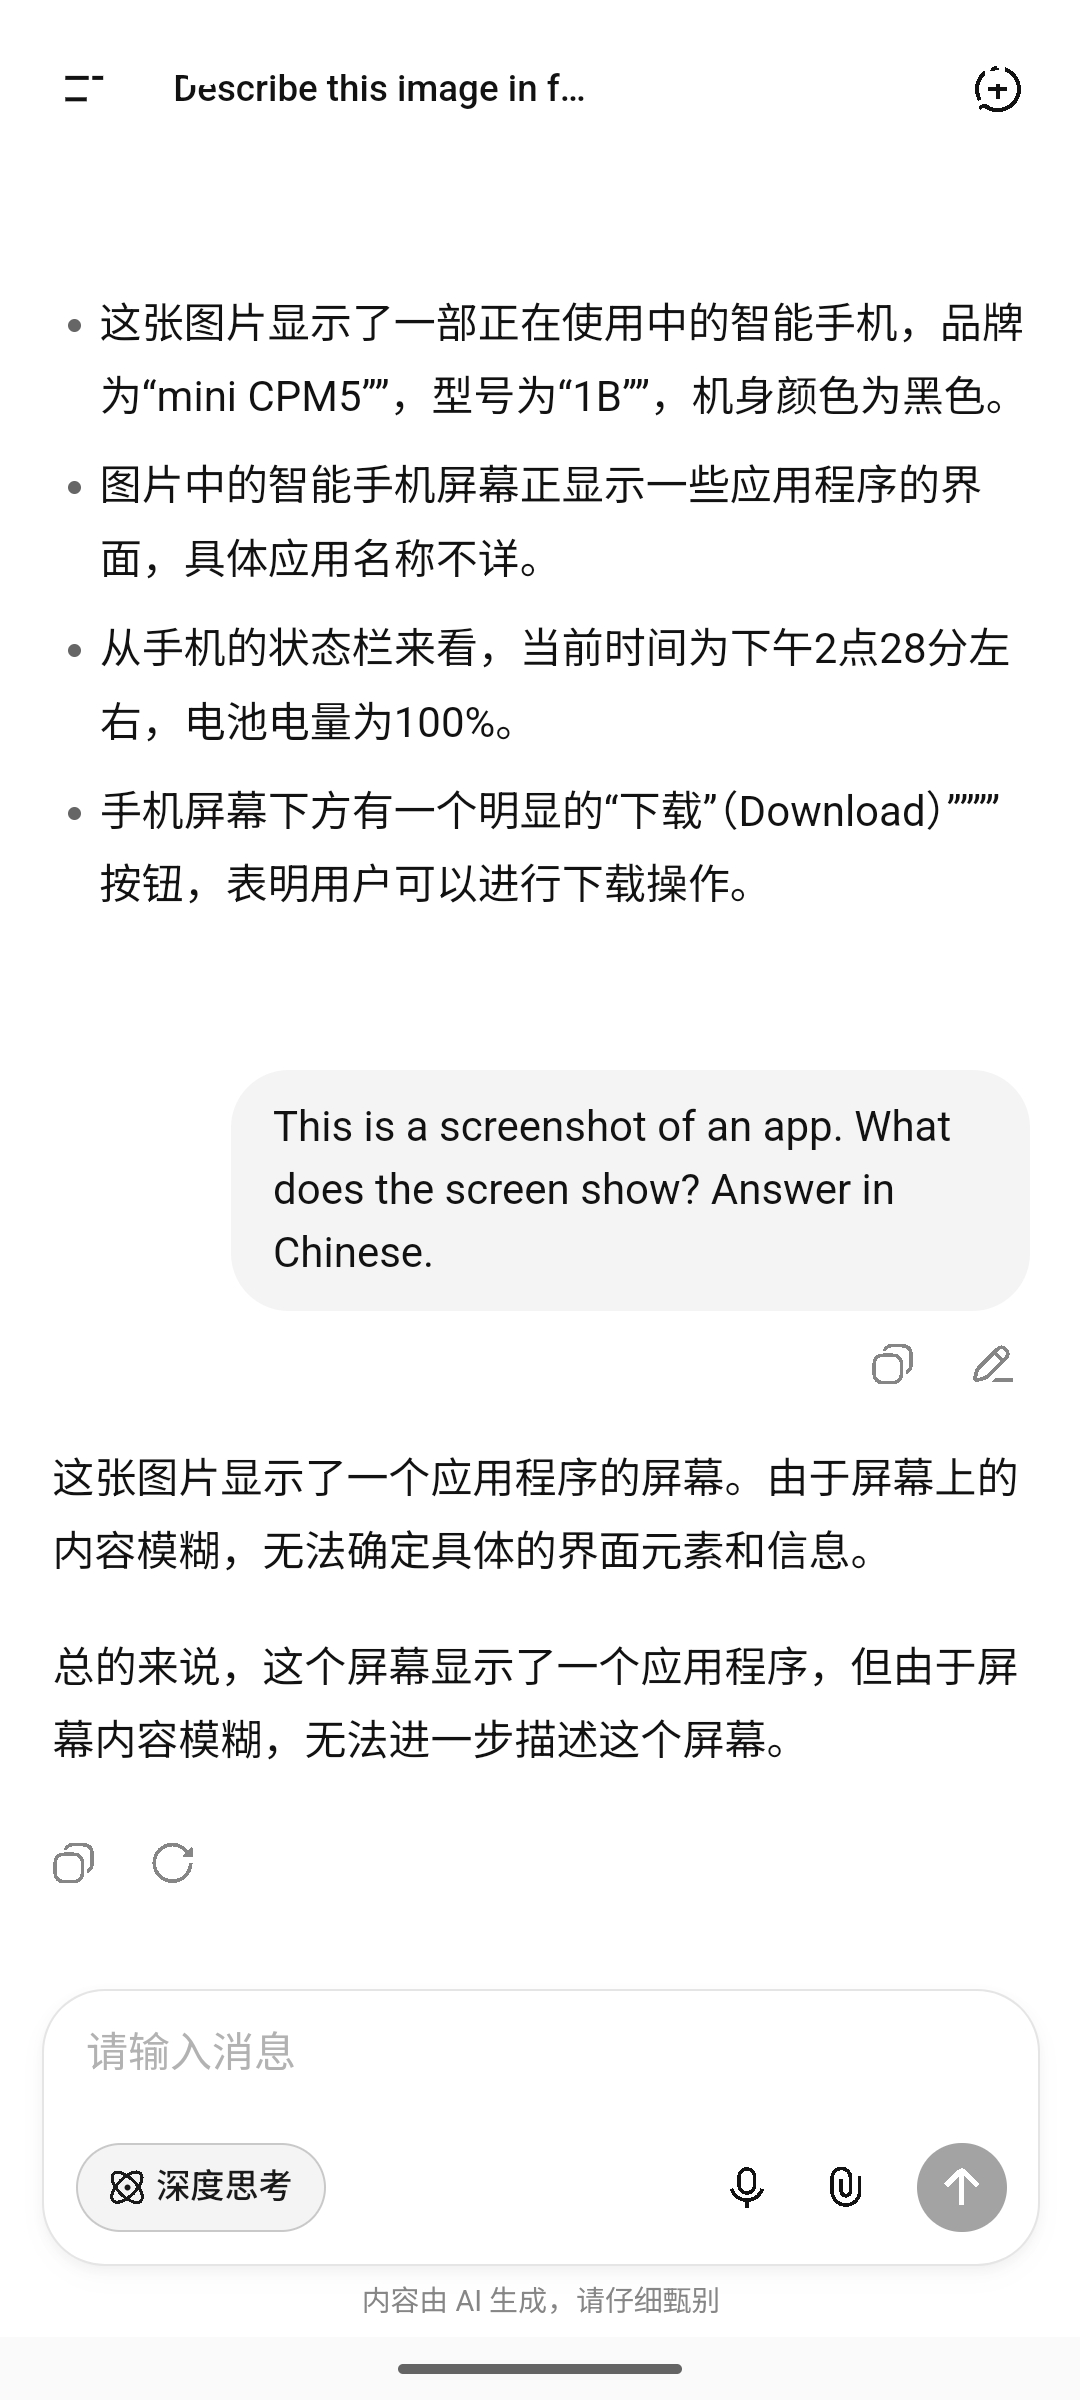
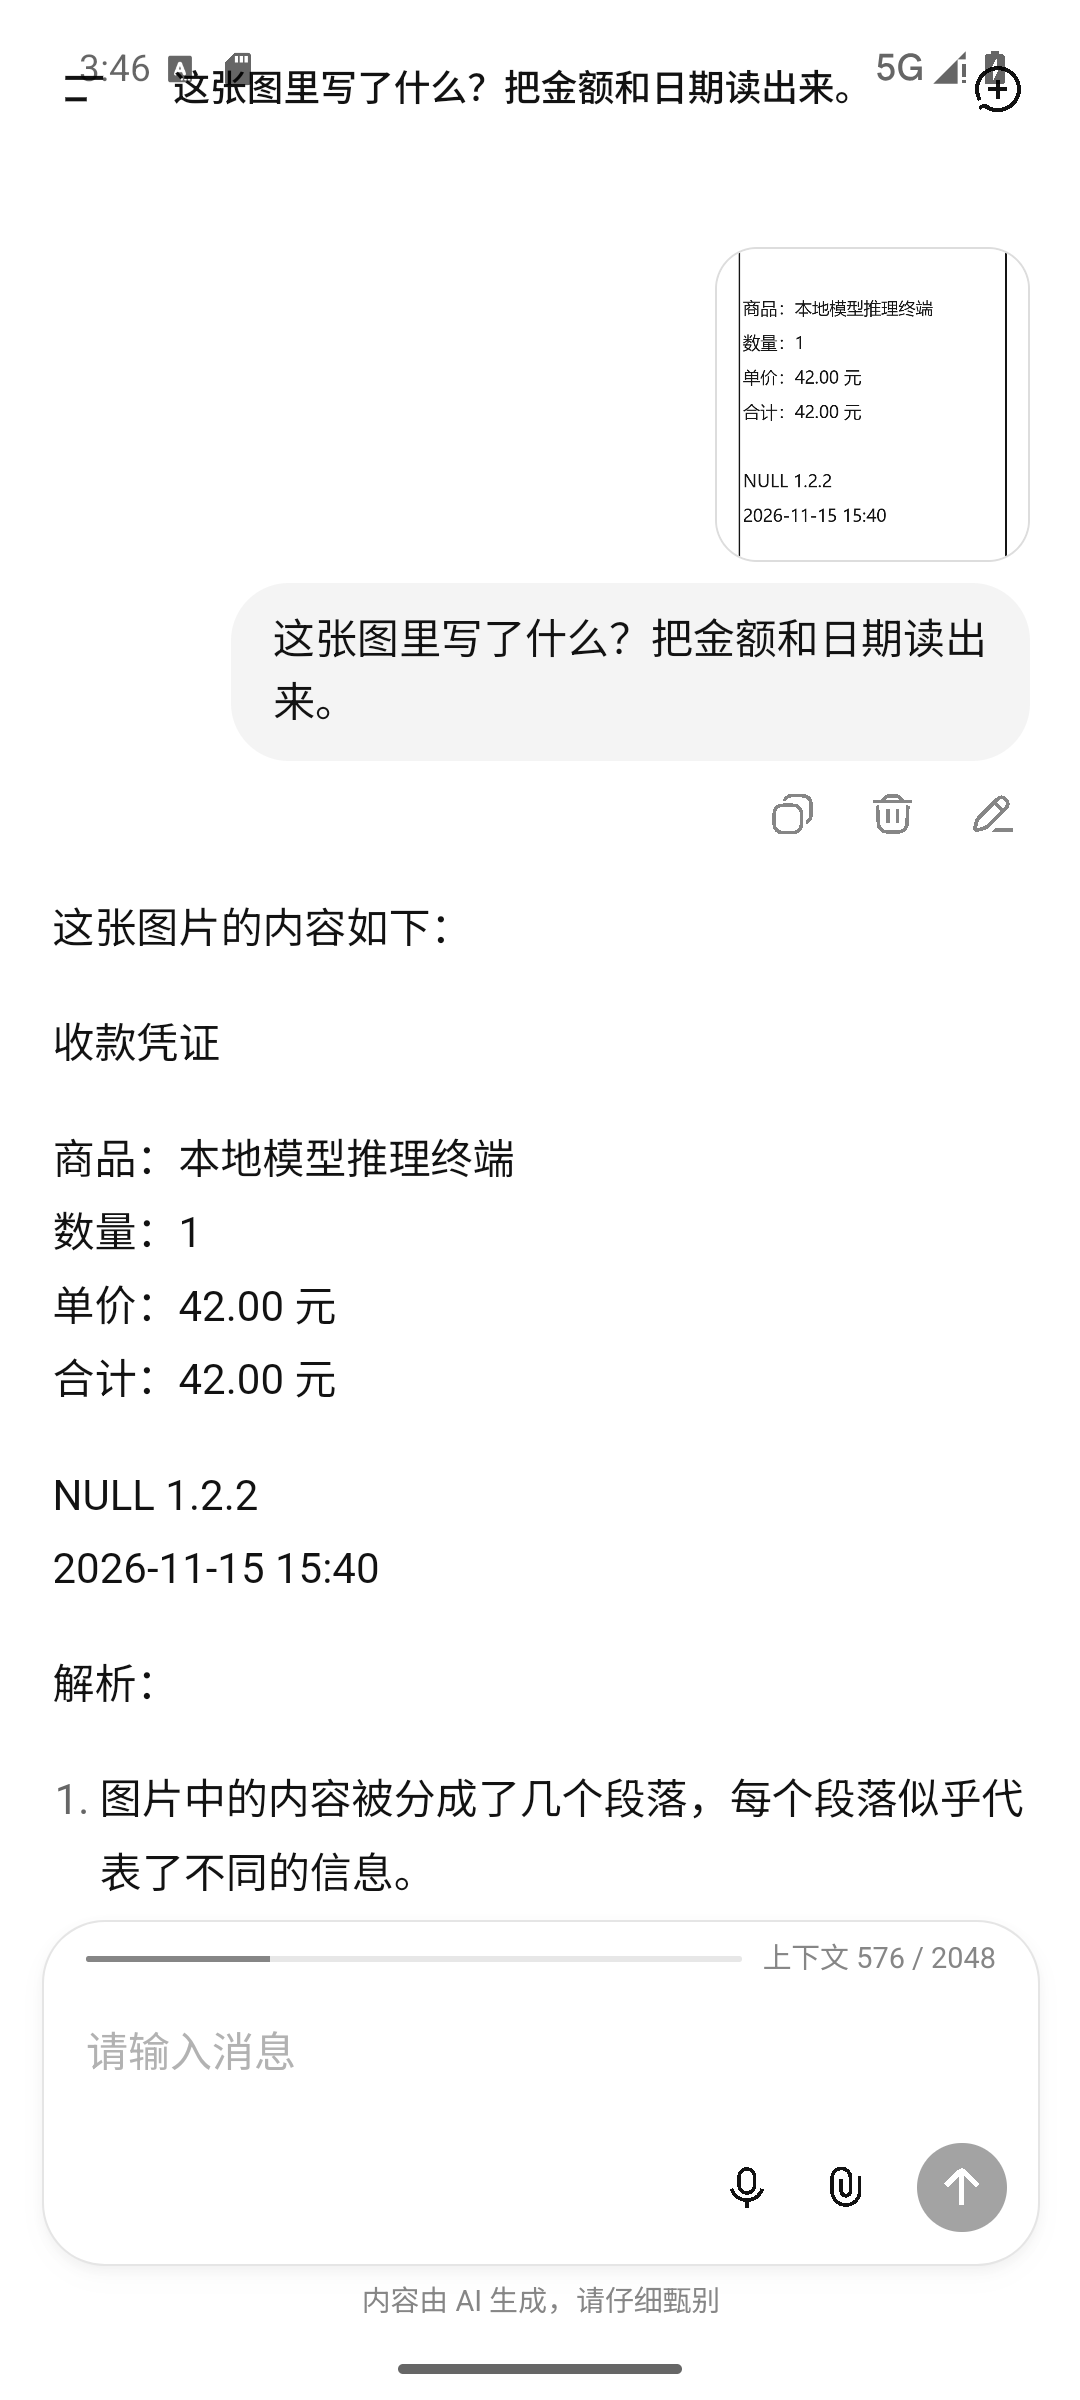
media: the vision screenshot shows the vision, on a receipt it actually read
The old one was a chat where an image had been attached; nothing in it showed an
image being understood. This one attaches a receipt, asks what it says, and the
answer transcribes the line items, 42.00 元 and the date, above the thumbnail of the
image it read. The paragraph that used to cite the old example now cites this one --
same caveat about precision, a claim that matches the picture.

Getting it took the picker: an image alone is refused ("没有可发送的问题"), so the
question goes into the composer first, the paperclip attaches the file, and the send
button then sees both.

diff --git a/README.md b/README.md
@@ -60,8 +60,8 @@
 
 **这三件事都有边界，写在这里而不是藏着：**
 
-- 视觉精度取决于模型。同一张截图，一次读出了「MiniCPM5 1B」和界面上的「下载」按钮，
-  另一次说画面模糊（上图就是这两轮的原文）。2B 的视觉模型是这样，12B 也是 —— 差别在程度。
+- 视觉精度取决于模型。上图那张凭证，商品、数量、单价、合计 42.00 元 和日期都读了出来；
+  换一张更糊的照片，同一档模型也会说「画面看不清」——2B 是这样，12B 也是，差别在程度。
 - 语音输入走系统的 `SpeechRecognizer`，请求带 `EXTRA_PREFER_OFFLINE`。**设备没有离线识别器
   时会如实报错，不会退回云端**；模拟器就是这种设备，所以这一项只能在真机上看到转写结果。
 - 文档（PDF / Office）仍然拒收：版面解析在本机没有等价物，界面会直接说明，而不是上传。
